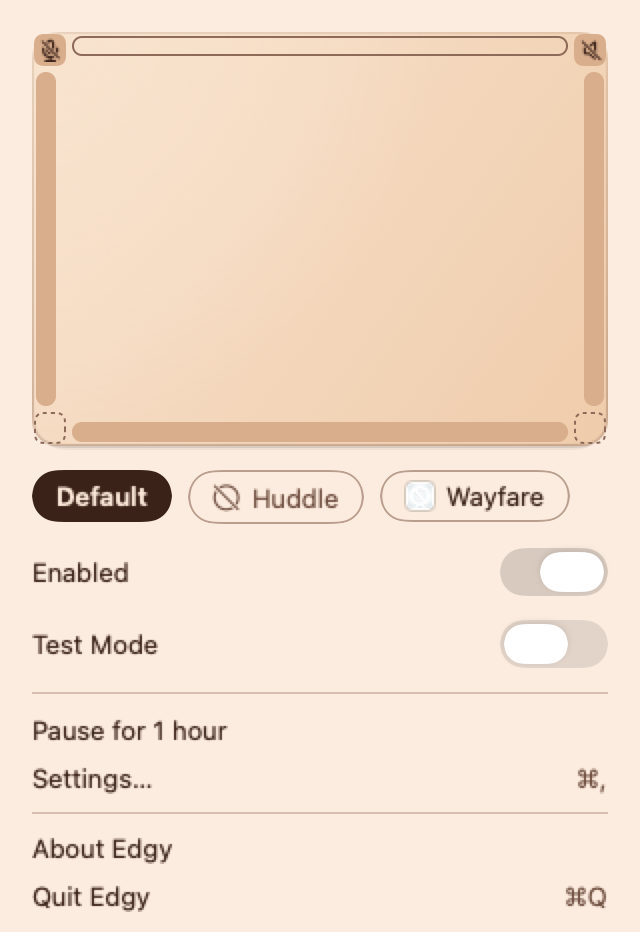
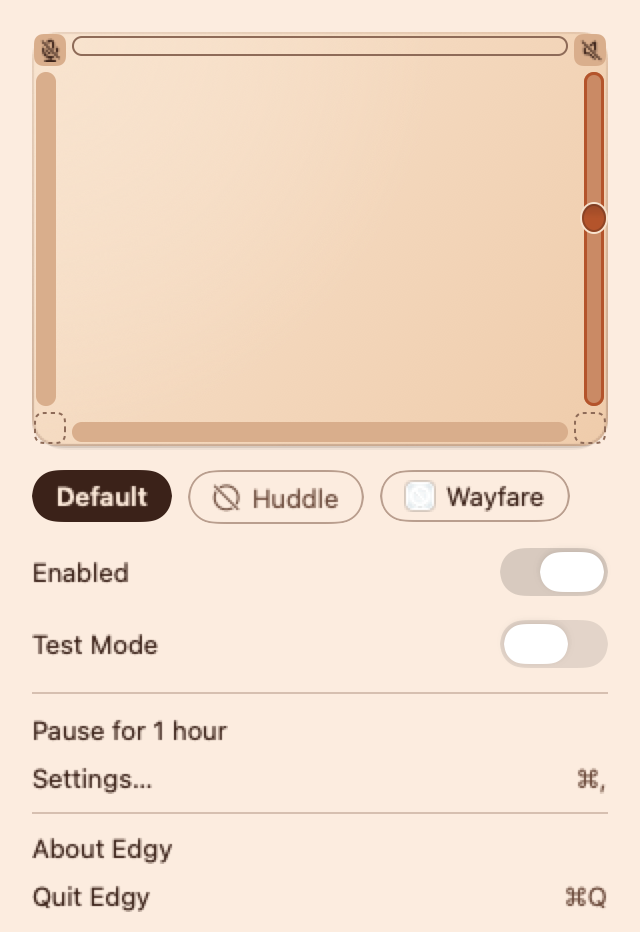
batch 21: last-touch shot taken with the finger down; spelling items done after the catalog fix on main

Changed region(s): [[0.9062, 0.0622, 0.9688, 0.4356]]

diff --git a/Tests/EdgyUITests/Window/Batch21SnapshotTests.swift b/Tests/EdgyUITests/Window/Batch21SnapshotTests.swift
@@ -185,10 +185,10 @@ struct Batch21SnapshotTests {
 
   @Test func popoverLastTouch() throws {
     let model = PreviewFixtures.model()
+    // The contact where it landed on the right edge. The mirror keeps it after the lift by holding
+    // the last frame in its own state while on screen; a headless snapshot builds a fresh view, so
+    // the shot is taken with the finger down.
     model.simulate(MirrorFixtures.touch(0.975, 0.55, .claimed))
-    model.simulate(
-      LiveFeedUpdate(
-        touches: LiveTouchFrame(deviceID: PreviewFixtures.externalPad.id, timestamp: 2, touches: []), decisions: []))
     try popover("popover-last-touch", model: model)
   }
 

diff --git a/.parallel-plans/done-batch-21.md b/.parallel-plans/done-batch-21.md
@@ -41,7 +41,7 @@ Shots: `docs/design/build-shots/batch-21/` (new, integrated), plus re-shot `batc
 | M4 | Params under every binding | One open binding (see 15 M1) | B21 `window-picker-bottom` |
 | S1 | Per-layer fade | `.compositingGroup()` before the 0.4 | `pad-disabled`, `pad-huddle-off` |
 | S2 | 33 pt picker rows / 1.5 pt to top bar | 24 pt rows; 8 pt clearance from other zones in `PickerPlacement` | B21 `window-picker-bottom` |
-| S3 | Name spellings | ✔ by the governing rule: BRIEF bone 3 ("Action names are the catalog's display names, spelled the same everywhere") and ruling 6 ("Pick one in the catalog, and the UI never re-spells it"). The UI's re-spelling map is removed, so the pad, picker and inspector now show one spelling, the catalog's. **Still open outside this batch:** the catalog itself still reads "Play / Pause" (`Sources/Actions/ActionCatalog.swift:145`, not in my files; blocker 1). The UI follows the catalog the moment it changes. | B21 `window-picker-bottom` (pad, picker and inspector all read "Play / Pause") |
+| S3 | Name spellings | ✔ by the governing rule: BRIEF bone 3 ("Action names are the catalog's display names, spelled the same everywhere") and ruling 6 ("Pick one in the catalog, and the UI never re-spells it"). The UI's re-spelling map is removed, so the pad, picker and inspector now show one spelling, the catalog's. **Done:** the chief fixed the catalog on main (345fb9e: "Play/Pause", "Keyboard Backlight On/Off"). Merged here, and the UI follows with no change. | B21 `window-picker-bottom`, `tab-wayfare`, re-shot after the merge |
 | S4 | Truncated tab "…" | Rule (a) short value → (b) short name → clip with a 12 pt fade. A cut never adds "…". | `pad-split-bottom4-long-label` |
 | S5 | Preset corners as dots, shoot Windows | Corner radius capped at 30% of the tile | B21 `preset-windows`, `preset-minimal` |
 | S6 | Mini at real size, mini-disabled | Shot inside the popover at its 1.8 pt/mm width | B21 `popover-normal`, `popover-disabled` |
@@ -57,7 +57,7 @@ Shots: `docs/design/build-shots/batch-21/` (new, integrated), plus re-shot `batc
 | M3 | Do nothing here not shown | App-tab picker shot with an empty search and the full list: disclosure, separator, "Do nothing here" | `picker-app-tab-do-nothing` |
 | S1 | Keep-open helper | Helper always shown, from the catalog | B21 `inspector-long-labels` |
 | S2 | Hold Keys timing | "Hold before it starts" row; "Let go after" moved last, with the spec's label and helper; default in `ink2` | `inspector-corner-needs-keys` |
-| S3 | Spaced slashes | ✔ by the same rule (bone 3 + ruling 6): the UI shows one spelling everywhere, the catalog's. **The catalog's own spacing is still open** (blocker 1; outside my files). | B21 `window-picker-bottom`, `tab-wayfare` |
+| S3 | Spaced slashes | ✔ by the same rule (bone 3 + ruling 6): the UI shows one spelling everywhere, the catalog's. **Done:** the catalog is fixed on main (345fb9e) and merged here. | B21 `window-picker-bottom`, `tab-wayfare` |
 | S4 | Title-case labels | `sentenceCase` ("Shortcut name", "File or folder") | `param-shortcut`, `param-path` |
 | S5 | Label sits low in two-line rows | Custom `.parameterRow` alignment: the label lines up with the field; the message hangs below | `param-url-error`, `param-recorder-error` |
 | S6 | Recorder error demo | Field shows "⌘" alone | `param-recorder-error` |
